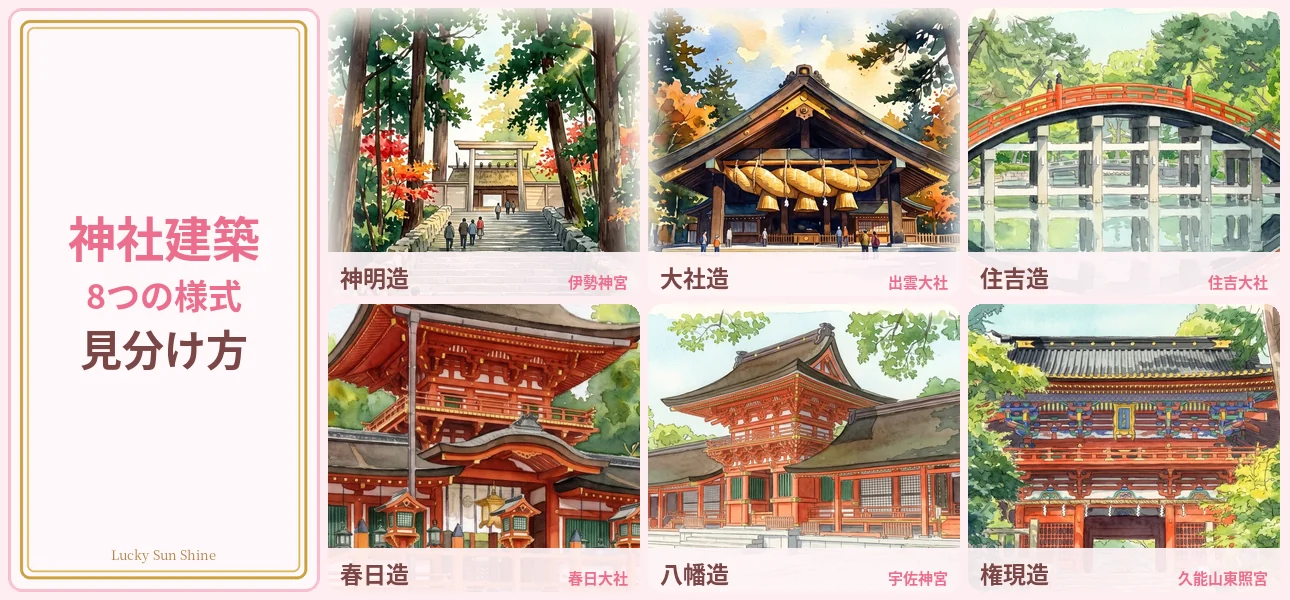
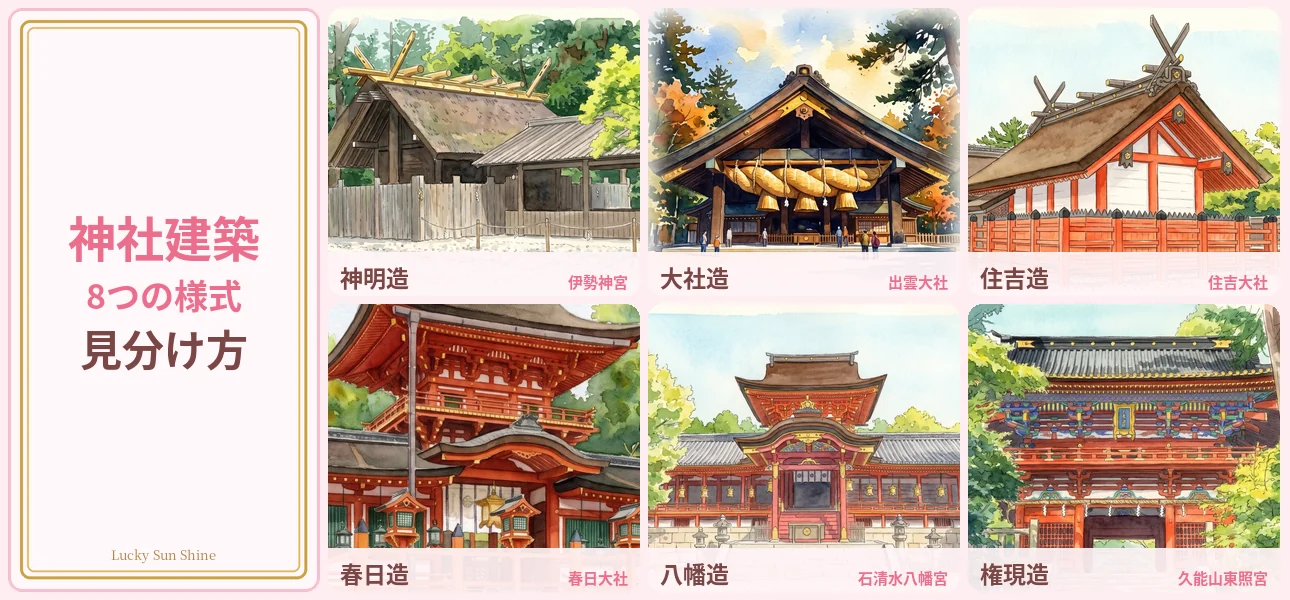
神社建築カードを新しい水彩画に差し替え、参拝の基本にカード画像を設定
Claude-Session: https://claude.ai/code/session_01YLWmcHs5oz4ysSh5nozixo

Changed region(s): [[0.4961, 0.51, 0.7442, 0.99], [0.2481, 0.0, 0.4961, 0.42], [0.7442, 0.0, 0.9922, 0.42]]

diff --git a/content/posts/2026-05-12-shrine-visit-basics.en.md b/content/posts/2026-05-12-shrine-visit-basics.en.md
@@ -17,6 +17,7 @@ viatorSpots:
     query: "Meiji Jingu Tokyo"
   - name: "Izumo Taisha"
     query: "Izumo Taisha"
+cardImage: "/images/cards/shrine-visit-basics-wide.webp"
 ---
 
 ## Introduction

diff --git a/content/posts/2026-05-12-shrine-visit-basics.md b/content/posts/2026-05-12-shrine-visit-basics.md
@@ -11,6 +11,7 @@ tags:
   - 総合ガイド
 slug: shrine-visit-basics
 draft: false
+cardImage: "/images/cards/shrine-visit-basics-wide.webp"
 ---
 
 ## はじめに

diff --git a/content/posts/2026-05-12-shrine-visit-basics.zh-tw.md b/content/posts/2026-05-12-shrine-visit-basics.zh-tw.md
@@ -11,6 +11,7 @@ tags:
   - 綜合指南
 slug: shrine-visit-basics
 draft: false
+cardImage: "/images/cards/shrine-visit-basics-wide.webp"
 ---
 
 ## 前言
